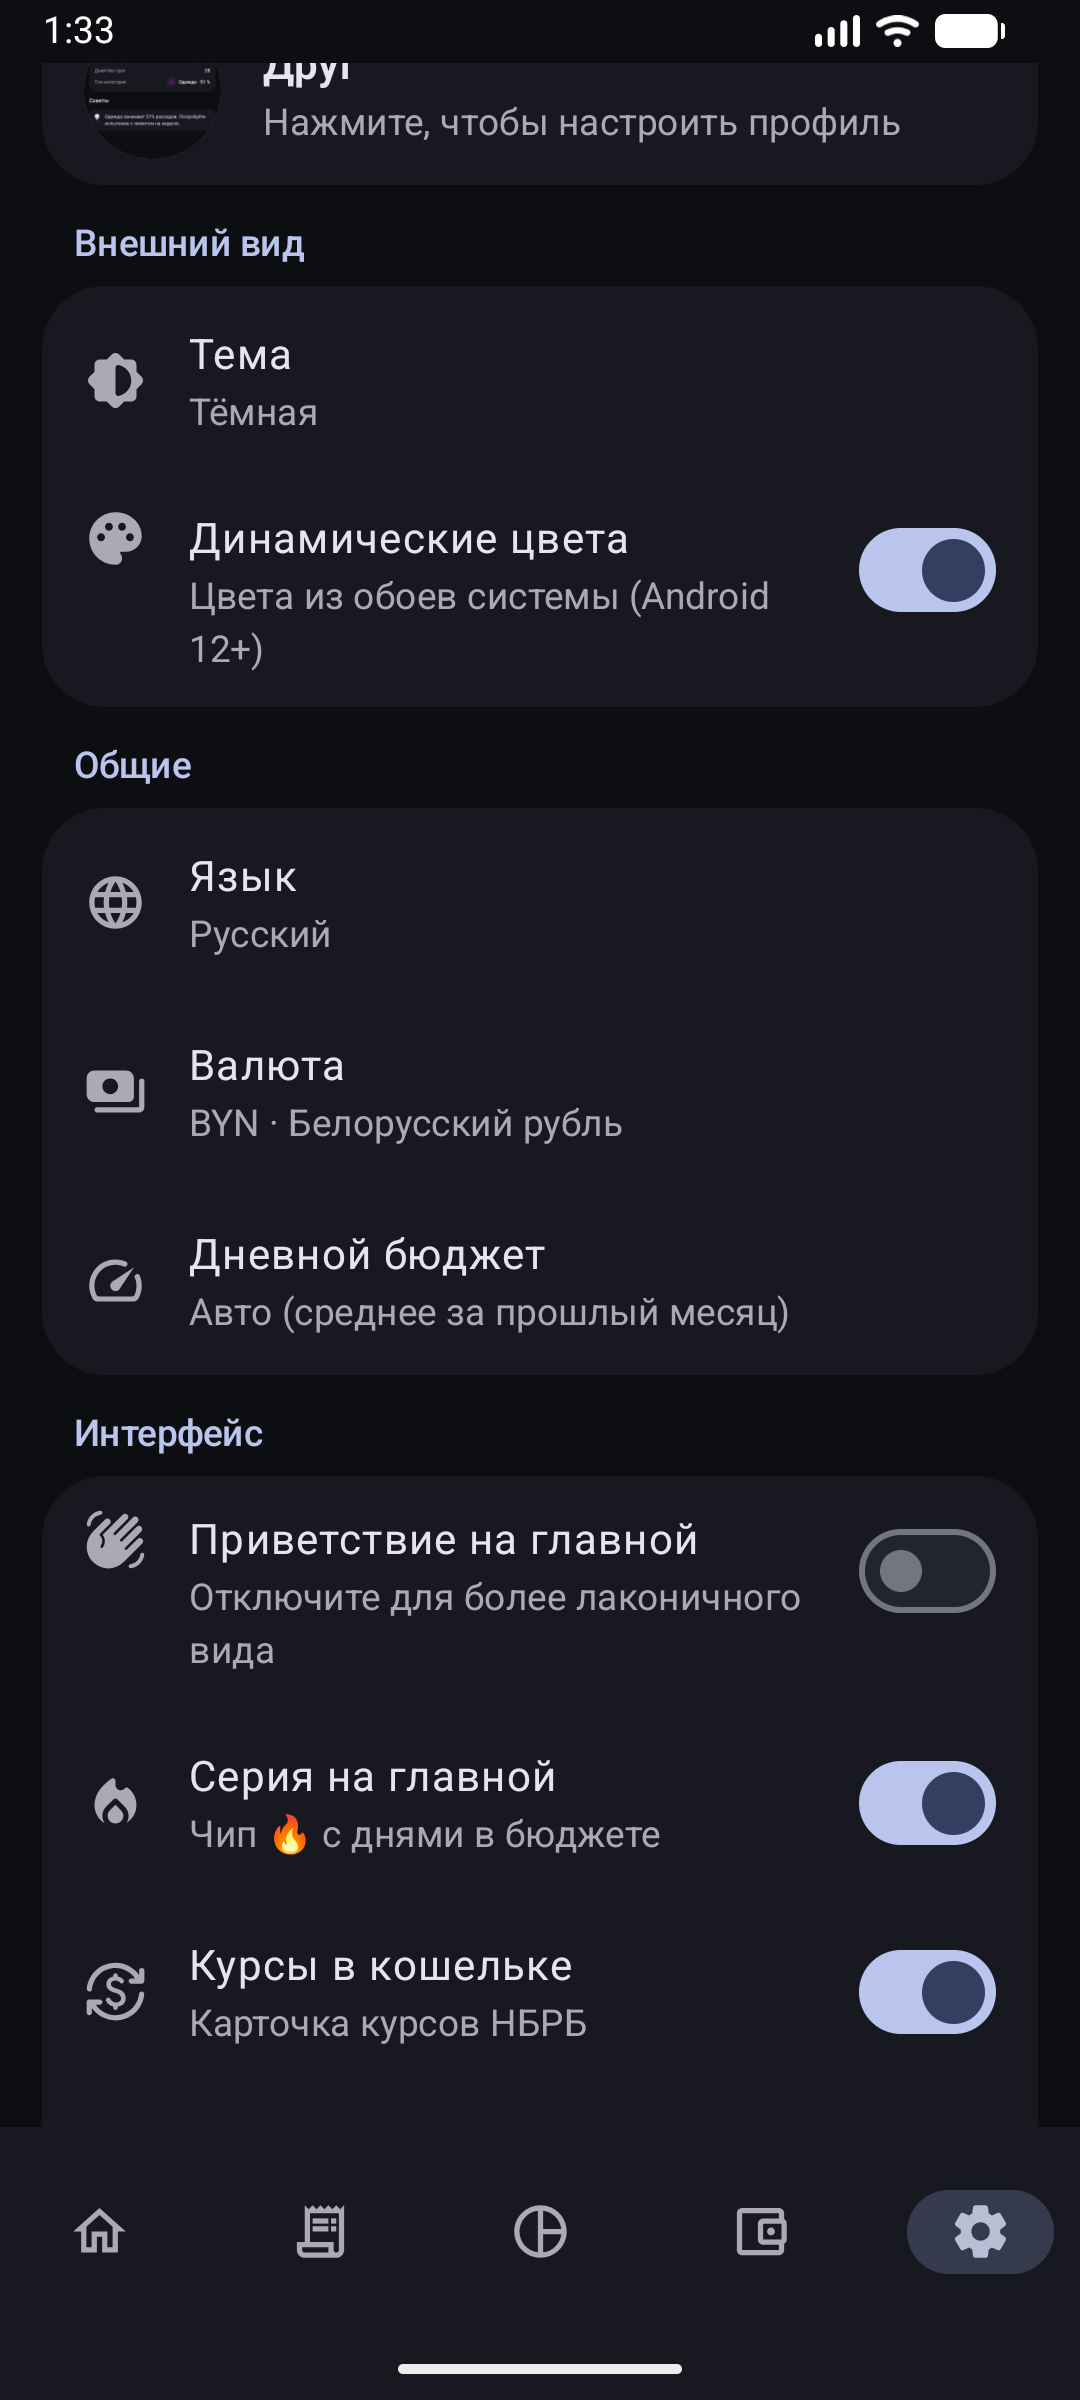
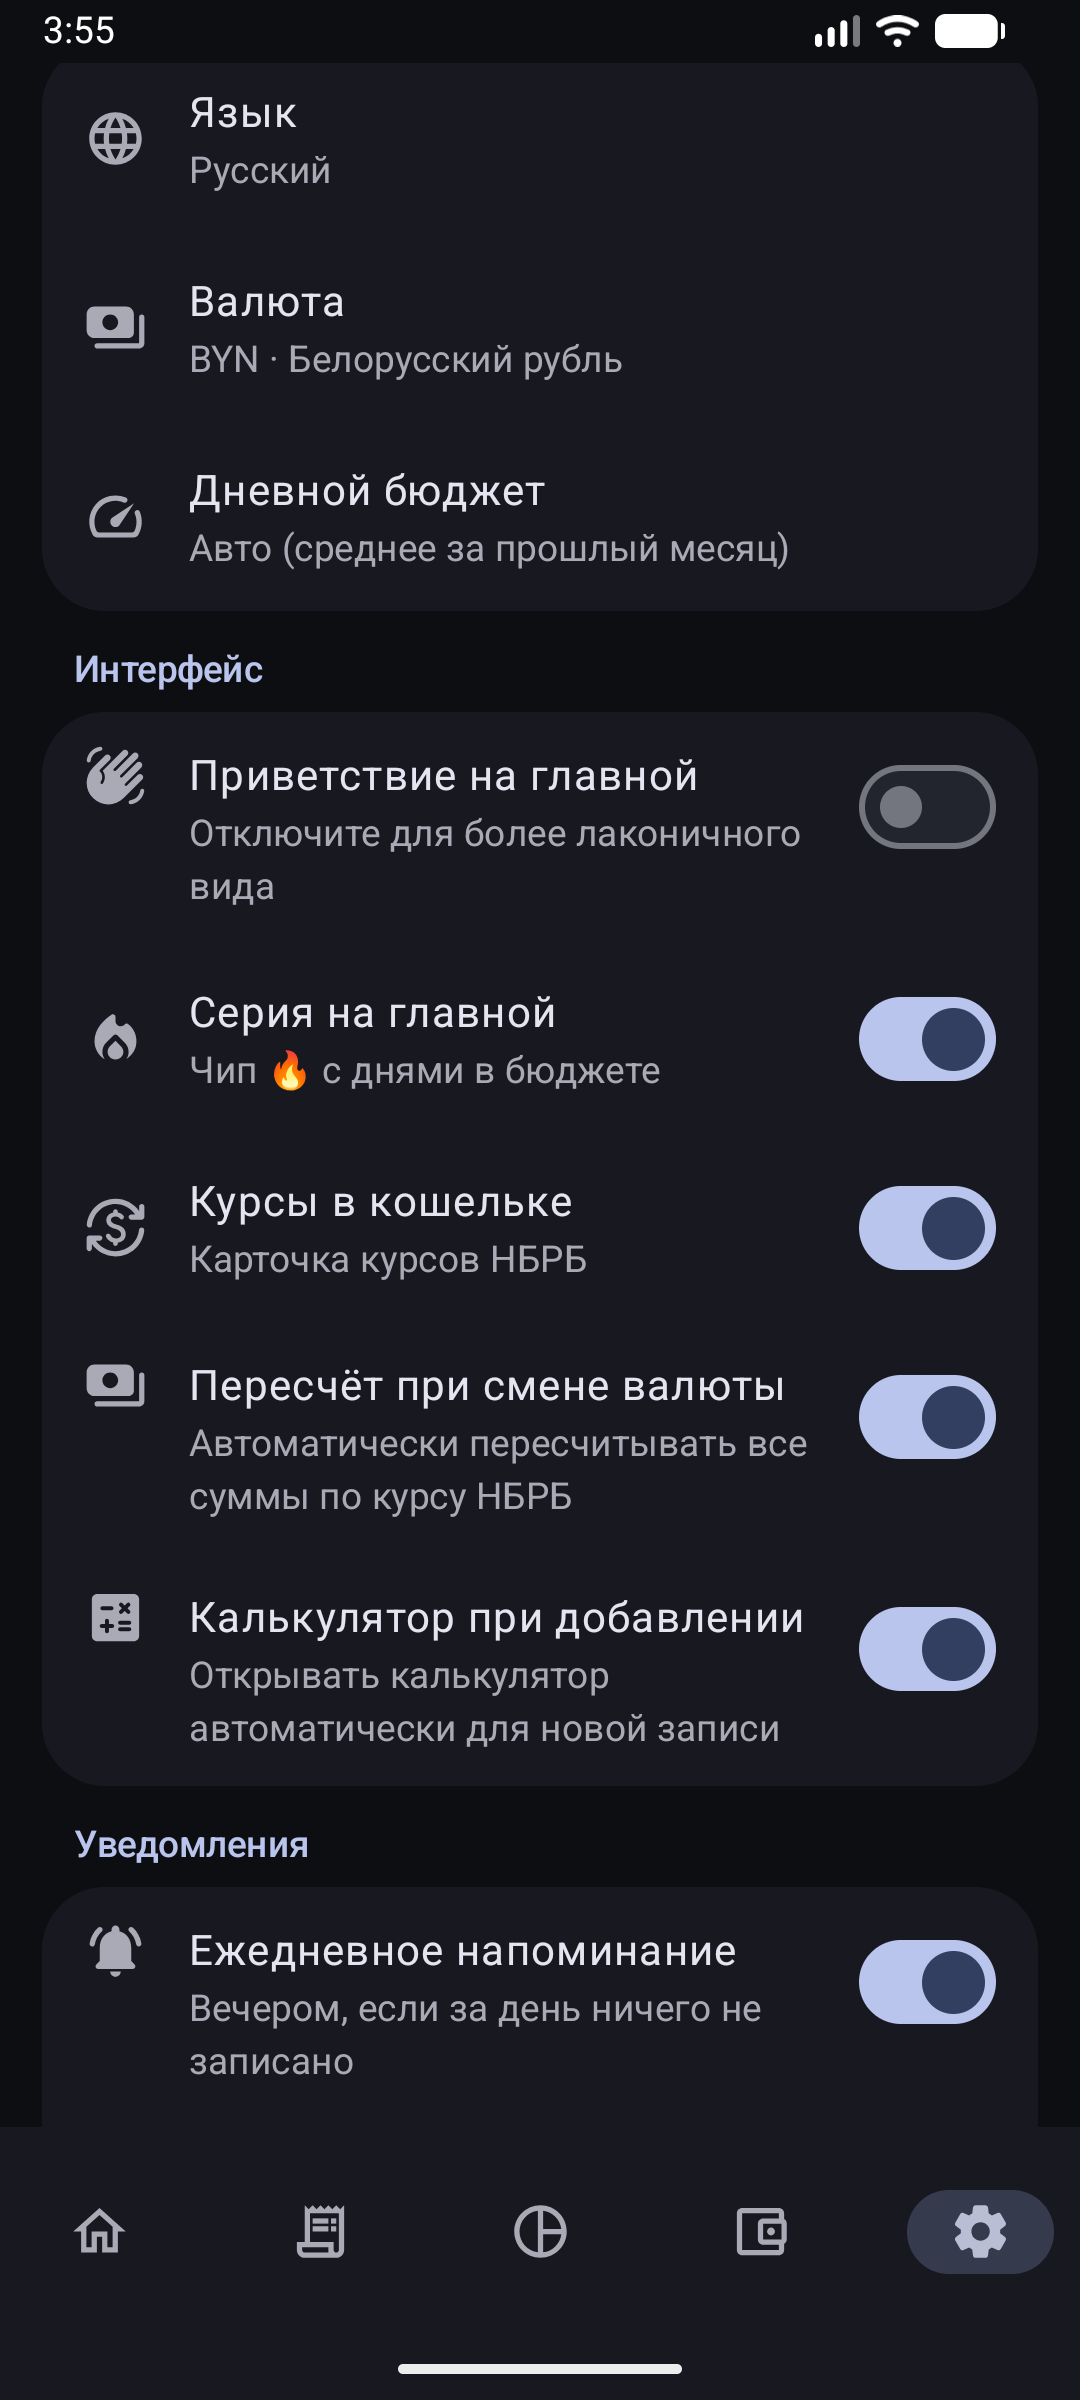
Quieter notifications, softer profile photo removal, calculator toggle
- Recurring-charge notifications no longer pop over what the user is
  doing: the channel moved to recurring_v2 with DEFAULT importance
  because an existing channel cannot be quieted in code, and every
  notification is posted silent, alert-once and auto-cancelling
- Verified on device: notifications are delivered, tapping one opens the
  app and dismisses itself
- The profile photo has no delete button anymore: press and hold the
  avatar and confirm, with the hint spelled out under it
- New Interface toggle decides whether the calculator opens by itself
  when adding a record

diff --git a/app/src/main/java/by/mlastovsky/kosht/ui/settings/SettingsScreen.kt b/app/src/main/java/by/mlastovsky/kosht/ui/settings/SettingsScreen.kt
@@ -7,6 +7,7 @@ import androidx.activity.compose.rememberLauncherForActivityResult
 import androidx.activity.result.contract.ActivityResultContracts
 import androidx.compose.foundation.background
 import androidx.compose.foundation.clickable
+import androidx.compose.foundation.combinedClickable
 import androidx.compose.foundation.layout.Column
 import androidx.compose.foundation.layout.size
 import androidx.compose.foundation.layout.fillMaxSize
@@ -20,6 +21,7 @@ import androidx.compose.material.icons.Icons
 import androidx.compose.material.icons.automirrored.rounded.HelpOutline
 import androidx.compose.material.icons.rounded.AccountBalanceWallet
 import androidx.compose.material.icons.rounded.BrightnessMedium
+import androidx.compose.material.icons.rounded.Calculate
 import androidx.compose.material.icons.rounded.DeleteOutline
 import androidx.compose.material.icons.rounded.CurrencyExchange
 import androidx.compose.material.icons.rounded.Info
@@ -229,6 +231,13 @@ fun SettingsScreen(
                 icon = Icons.Rounded.Payments,
                 checked = current.convertOnCurrencyChange,
                 onChange = viewModel::setConvertOnCurrencyChange
+            )
+            NotificationToggle(
+                titleRes = R.string.auto_calc,
+                descRes = R.string.auto_calc_desc,
+                icon = Icons.Rounded.Calculate,
+                checked = current.autoCalculator,
+                onChange = viewModel::setAutoCalculator
             )
         }
 
@@ -458,6 +467,7 @@ private fun DailyBudgetDialog(
 
 private val PRESET_AVATARS = listOf("🦊", "🐻", "🐼", "🦁", "🐸", "🚀", "💎", "🌟", "🔥", "🤑")
 
+@OptIn(androidx.compose.foundation.ExperimentalFoundationApi::class)
 @Composable
 private fun ProfileDialog(
     initialName: String,
@@ -472,9 +482,36 @@ private fun ProfileDialog(
 ) {
     var name by remember { mutableStateOf(initialName) }
     var nickname by remember { mutableStateOf(initialNickname) }
+    var confirmRemovePhoto by remember { mutableStateOf(false) }
     val photoLauncher = rememberLauncherForActivityResult(
         ActivityResultContracts.PickVisualMedia()
     ) { uri -> if (uri != null) onPickPhoto(uri) }
+
+    if (confirmRemovePhoto) {
+        AlertDialog(
+            onDismissRequest = { confirmRemovePhoto = false },
+            title = { Text(stringResource(R.string.photo_remove)) },
+            text = { Text(stringResource(R.string.photo_remove_confirm)) },
+            confirmButton = {
+                TextButton(
+                    onClick = {
+                        onRemovePhoto()
+                        confirmRemovePhoto = false
+                    }
+                ) {
+                    Text(
+                        stringResource(R.string.editor_delete),
+                        color = MaterialTheme.colorScheme.error
+                    )
+                }
+            },
+            dismissButton = {
+                TextButton(onClick = { confirmRemovePhoto = false }) {
+                    Text(stringResource(R.string.action_cancel))
+                }
+            }
+        )
+    }
 
     AlertDialog(
         onDismissRequest = onDismiss,
@@ -484,22 +521,28 @@ private fun ProfileDialog(
                 horizontalAlignment = androidx.compose.ui.Alignment.CenterHorizontally,
                 verticalArrangement = androidx.compose.foundation.layout.Arrangement.spacedBy(12.dp)
             ) {
+                // No explicit delete button: press and hold removes the
+                // photo, the hint below spells that out.
                 Avatar(
                     photoPath = photoPath,
                     fallbackText = nickname.ifBlank { name.ifBlank { defaultName } },
                     size = 72.dp,
-                    modifier = Modifier.clickable {
-                        photoLauncher.launch(
-                            androidx.activity.result.PickVisualMediaRequest(
-                                ActivityResultContracts.PickVisualMedia.ImageOnly
+                    modifier = Modifier.combinedClickable(
+                        onClick = {
+                            photoLauncher.launch(
+                                androidx.activity.result.PickVisualMediaRequest(
+                                    ActivityResultContracts.PickVisualMedia.ImageOnly
+                                )
                             )
-                        )
-                    }
+                        },
+                        onLongClick = { if (photoPath != null) confirmRemovePhoto = true }
+                    )
                 )
                 Text(
                     text = stringResource(R.string.profile_photo_hint),
                     style = MaterialTheme.typography.bodySmall,
-                    color = MaterialTheme.colorScheme.onSurfaceVariant
+                    color = MaterialTheme.colorScheme.onSurfaceVariant,
+                    textAlign = androidx.compose.ui.text.style.TextAlign.Center
                 )
                 androidx.compose.foundation.lazy.LazyRow(
                     horizontalArrangement =
@@ -513,14 +556,6 @@ private fun ProfileDialog(
                             fallbackText = emoji,
                             size = 44.dp,
                             modifier = Modifier.clickable { onPickEmoji(emoji) }
-                        )
-                    }
-                }
-                if (photoPath != null) {
-                    TextButton(onClick = onRemovePhoto) {
-                        Text(
-                            stringResource(R.string.photo_remove),
-                            color = MaterialTheme.colorScheme.error
                         )
                     }
                 }

diff --git a/app/src/main/java/by/mlastovsky/kosht/data/SettingsRepository.kt b/app/src/main/java/by/mlastovsky/kosht/data/SettingsRepository.kt
@@ -7,6 +7,7 @@ import androidx.datastore.preferences.core.booleanPreferencesKey
 import androidx.datastore.preferences.core.edit
 import androidx.datastore.preferences.core.longPreferencesKey
 import androidx.datastore.preferences.core.stringPreferencesKey
+import androidx.datastore.preferences.core.stringSetPreferencesKey
 import androidx.datastore.preferences.preferencesDataStore
 import by.mlastovsky.kosht.model.AppLanguage
 import by.mlastovsky.kosht.model.ThemeMode
@@ -34,7 +35,11 @@ data class AppSettings(
     /** Recalculate stored amounts by the NBRB rate when switching currency. */
     val convertOnCurrencyChange: Boolean,
     /** Master switch for multiple money sources (cards/cash). */
-    val multiAccount: Boolean
+    val multiAccount: Boolean,
+    /** Names of [by.mlastovsky.kosht.model.ReportField] rows shown in the report. */
+    val reportFields: Set<String>,
+    /** Open the calculator automatically when adding a new record. */
+    val autoCalculator: Boolean
 )
 
 data class UserProfile(
@@ -65,6 +70,16 @@ class SettingsRepository(private val context: Context) {
         val showRates = booleanPreferencesKey("show_rates")
         val convertOnCurrencyChange = booleanPreferencesKey("convert_on_currency_change")
         val multiAccount = booleanPreferencesKey("multi_account")
+        val reportFields = stringSetPreferencesKey("report_fields")
+        val autoCalculator = booleanPreferencesKey("auto_calculator")
+    }
+
+    suspend fun setReportFields(fields: Set<String>) {
+        context.dataStore.edit { it[Keys.reportFields] = fields }
+    }
+
+    suspend fun setAutoCalculator(value: Boolean) {
+        context.dataStore.edit { it[Keys.autoCalculator] = value }
     }
 
     suspend fun setMultiAccount(value: Boolean) {
@@ -125,7 +140,11 @@ class SettingsRepository(private val context: Context) {
             showStreak = prefs[Keys.showStreak] ?: true,
             showRates = prefs[Keys.showRates] ?: true,
             convertOnCurrencyChange = prefs[Keys.convertOnCurrencyChange] ?: true,
-            multiAccount = prefs[Keys.multiAccount] ?: false
+            multiAccount = prefs[Keys.multiAccount] ?: false,
+            // Absent preference = all rows; an explicit empty set is honored.
+            reportFields = prefs[Keys.reportFields]
+                ?: by.mlastovsky.kosht.model.ReportField.entries.map { it.name }.toSet(),
+            autoCalculator = prefs[Keys.autoCalculator] ?: true
         )
     }
 

diff --git a/app/src/main/java/by/mlastovsky/kosht/notifications/Notifications.kt b/app/src/main/java/by/mlastovsky/kosht/notifications/Notifications.kt
@@ -17,8 +17,14 @@ import by.mlastovsky.kosht.R
 object Notifications {
 
     const val CHANNEL_REMINDERS = "reminders"
-    const val CHANNEL_RECURRING = "recurring"
+
+    // v2: the original channel was created with IMPORTANCE_HIGH and its
+    // importance can no longer be lowered in code — a new id is the only
+    // way to drop the heads-up popup for existing installs.
+    const val CHANNEL_RECURRING = "recurring_v2"
     const val CHANNEL_SUMMARY = "summary"
+
+    private const val CHANNEL_RECURRING_LEGACY = "recurring"
 
     const val ID_DAILY = 1
     const val ID_RECURRING = 2
@@ -26,6 +32,7 @@ object Notifications {
 
     fun ensureChannels(context: Context) {
         val manager = context.getSystemService(NotificationManager::class.java) ?: return
+        manager.deleteNotificationChannel(CHANNEL_RECURRING_LEGACY)
         manager.createNotificationChannel(
             NotificationChannel(
                 CHANNEL_REMINDERS,
@@ -37,7 +44,9 @@ object Notifications {
             NotificationChannel(
                 CHANNEL_RECURRING,
                 context.getString(R.string.channel_recurring),
-                NotificationManager.IMPORTANCE_HIGH
+                // DEFAULT, not HIGH: no heads-up popup over whatever the
+                // user is doing — a status-bar entry is enough.
+                NotificationManager.IMPORTANCE_DEFAULT
             )
         )
         manager.createNotificationChannel(
@@ -75,6 +84,11 @@ object Notifications {
             .setStyle(NotificationCompat.BigTextStyle().bigText(text))
             .setContentIntent(pending)
             .setAutoCancel(true)
+            // Quiet by design: no full-screen intent, no vibration pattern,
+            // and never louder than the channel allows.
+            .setPriority(NotificationCompat.PRIORITY_DEFAULT)
+            .setCategory(NotificationCompat.CATEGORY_REMINDER)
+            .setOnlyAlertOnce(true)
             .build()
         NotificationManagerCompat.from(context).notify(id, notification)
     }

diff --git a/app/src/main/java/by/mlastovsky/kosht/ui/editor/EditorViewModel.kt b/app/src/main/java/by/mlastovsky/kosht/ui/editor/EditorViewModel.kt
@@ -48,6 +48,8 @@ data class EditorUiState(
     val accounts: List<by.mlastovsky.kosht.data.db.AccountEntity> = emptyList(),
     val accountId: Long? = null,
     val multiAccount: Boolean = false,
+    /** Open the calculator automatically for a new record. */
+    val autoCalculator: Boolean = true,
     /** Working expression of the standalone calculator dialog. */
     val calcInput: String = ""
 ) {
@@ -153,6 +155,7 @@ class EditorViewModel(
             accounts = extras.accounts,
             accountId = d.accountId ?: extras.accounts.firstOrNull()?.id,
             multiAccount = settings.multiAccount,
+            autoCalculator = settings.autoCalculator,
             calcInput = extras.calcInput
         )
     }.stateIn(viewModelScope, SharingStarted.WhileSubscribed(5_000), EditorUiState())

diff --git a/app/src/main/java/by/mlastovsky/kosht/ui/editor/EditorScreen.kt b/app/src/main/java/by/mlastovsky/kosht/ui/editor/EditorScreen.kt
@@ -158,9 +158,12 @@ fun EditorScreen(
     }
 
     // A fresh record starts in the calculator right away — no extra tap.
+    // The behavior is a toggle in Settings → Interface.
     var calcAutoOpened by rememberSaveable { mutableStateOf(false) }
     LaunchedEffect(state.loaded) {
-        if (state.loaded && !state.isEdit && state.amountInput.isEmpty() && !calcAutoOpened) {
+        if (state.loaded && state.autoCalculator && !state.isEdit &&
+            state.amountInput.isEmpty() && !calcAutoOpened
+        ) {
             calcAutoOpened = true
             viewModel.openCalculator()
             showCalculator = true

diff --git a/app/src/main/java/by/mlastovsky/kosht/ui/settings/SettingsViewModel.kt b/app/src/main/java/by/mlastovsky/kosht/ui/settings/SettingsViewModel.kt
@@ -107,6 +107,10 @@ class SettingsViewModel(
         viewModelScope.launch { settingsRepository.setConvertOnCurrencyChange(value) }
     }
 
+    fun setAutoCalculator(value: Boolean) {
+        viewModelScope.launch { settingsRepository.setAutoCalculator(value) }
+    }
+
     companion object {
         val SUPPORTED_CURRENCIES = listOf("BYN", "USD", "EUR", "PLN", "UAH", "RUB", "GBP", "KZT")
     }
